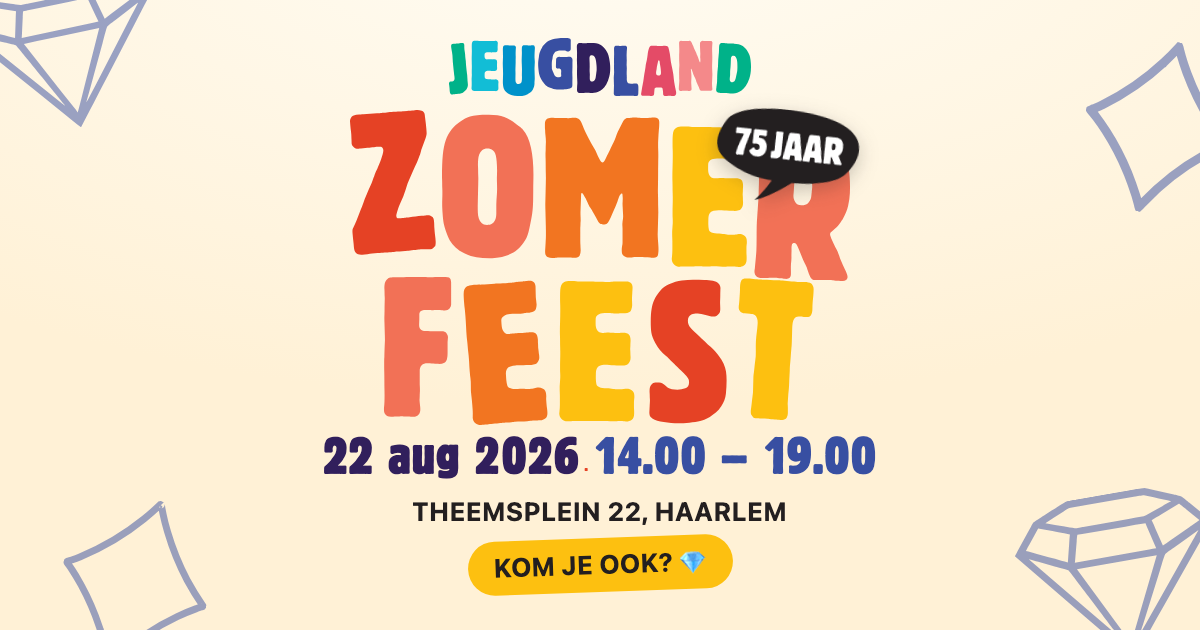
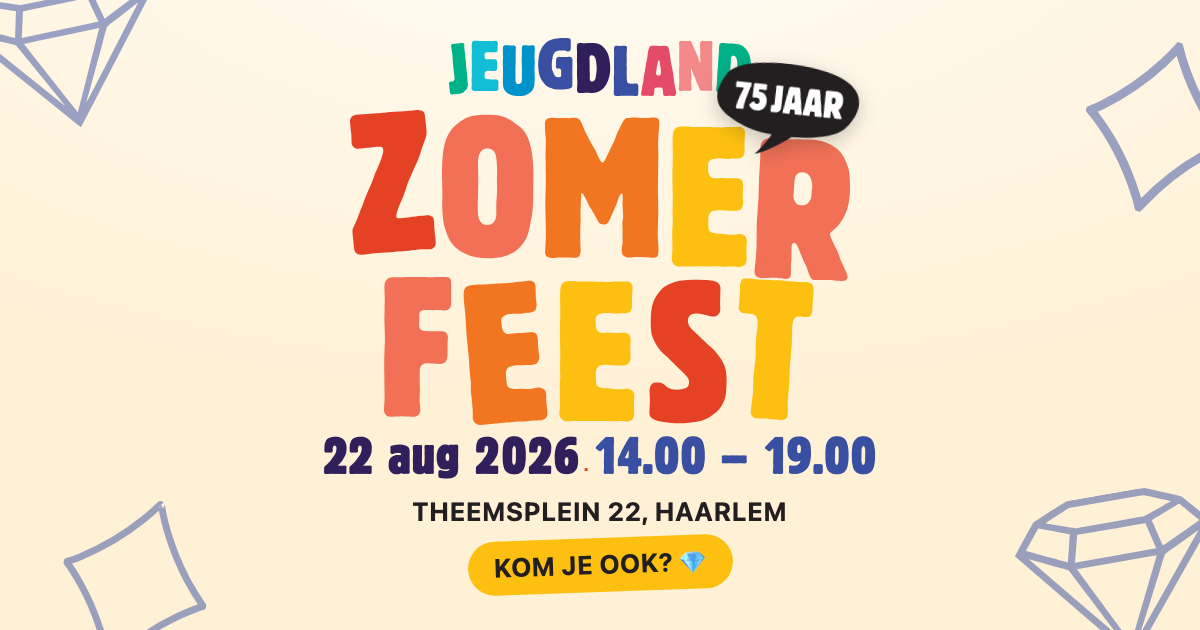
Raise 75-jaar badge in OG preview image

Changed region(s): [[0.5858, 0.0905, 0.74, 0.3317]]

diff --git a/og.html b/og.html
@@ -33,7 +33,7 @@
   .titlewrap { position: relative; width: 500px; margin-bottom: 6px; }
   .zomer { width: 100%; display: block; }
   .badge {
-    position: absolute; top: 0; right: -8px; width: 142px; rotate: 6deg;
+    position: absolute; top: -46px; right: -8px; width: 142px; rotate: 6deg;
     filter: drop-shadow(0 6px 10px rgba(35,31,32,.25));
   }
   .when {